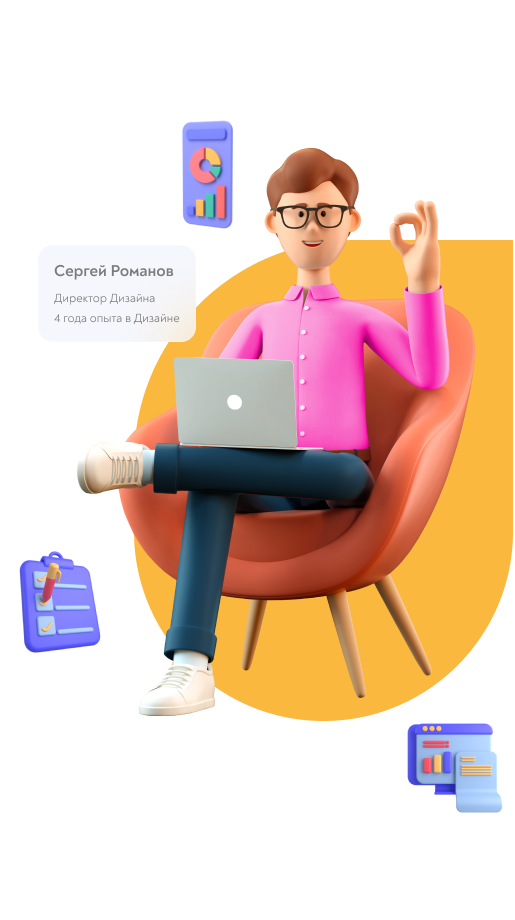
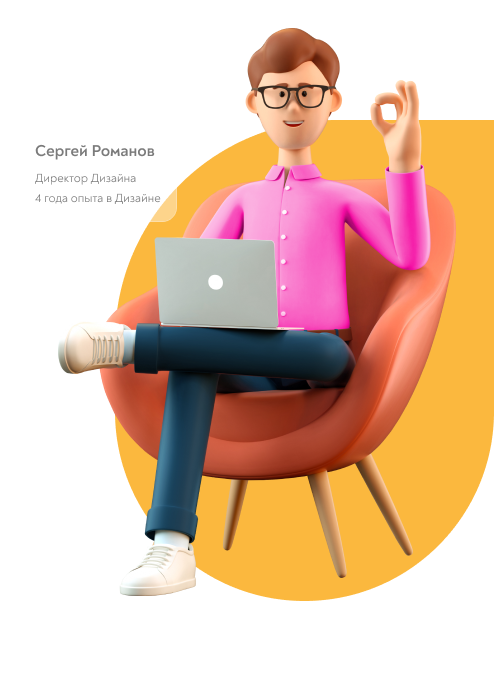
finaly first layout

diff --git a/src/components/ModalCallback/ModalCallback.jsx b/src/components/ModalCallback/ModalCallback.jsx
@@ -5,18 +5,18 @@ import "./modalcallback.css";
 const ModalCallback = (props) => {
   return (
   <div className="modalWrapper">
-    <div className="modalBody">
+    <div className="modalCallbackBody">
       <img src="./images/cross.png" className="closeModal" alt="Close" width="24" height="24" onClick={props.closeModal} />
-        <p className="titleModal">Пишите, звоните, куда удобно всегда на связи. Ответим на любые вопросые.</p>
-        <div className="modalNav">
-          <img src="./images/telegram.png" alt="telegram"  className="icoModal"/>
-          <a href="https" className="navLinkModal">Telegram</a>
-          <img src="./images/whatsapp.png" alt="telegram"  className="icoModal"/>
-          <a href="https" className="navLinkModal">Whats up</a>
-        
-        
+        <div className="callbackFormContent">
+        <h4>Обсудить проект</h4>
+        <p>Оставьте свои контакты и мы свяжемся, чтобы обсудить ваш проект.</p>
+        <form action="" className="callbackForm" >
+          <input type="textr"  placeholder="Введите ваше имя"/>
+          <input type="tel" placeholder="+XXX XXX XXX"/>
+          <button className="callbackMOdalBtn" callbackMOdalBtn>ОТПРАВИТЬ</button>
+        </form>
+        <span className="policyTitle">Нажимая кнопку «Отправить», Вы соглашаетесь с<br/><a href="">политикой конфиденциальности</a></span>
         </div>
-        
     </div>
   </div>
   

diff --git a/src/components/Portfolio/portfolio.css b/src/components/Portfolio/portfolio.css
@@ -22,8 +22,10 @@
 }
 .introTitle span {
     border-radius: 5px;
-    border: 1px tomato dashed;
-    background-color: rgba(255, 99, 71, 0.555)
+    background-image: url(../../../public/images/captureBorder.png) ;
+    background-size: contain;
+    background-repeat: no-repeat;
+    
 }
 .introParag {
     margin: 0;
@@ -46,6 +48,49 @@
     background-color: #EEF1FC ;
 }
 .introImage {
-    width: 461px;
+    position: relative;
+    width: 494px;
     height: 693px;
+}
+.introImages {
+    width: 494px;
+    height: 693px;
+    position: relative;
+}
+.telImage {
+    position: absolute;
+    left: 160px;
+    animation: livitation 5s infinite ;
+    animation-delay: 3s;
+}
+.noteImage {
+    position: absolute;
+    left: 0;
+    bottom: 170px;
+    animation: livitation 5s infinite;
+}
+.pcImage {
+    position: absolute;
+    bottom: 0;
+    right: 10px;
+    animation: livitation 5s infinite ;
+    animation-delay: 1.5s;
+} 
+
+@keyframes livitation {
+    0% {
+        transform: translateY(0);
+    }
+    25%{
+        transform: translateY(-9px);
+    }
+    50%{
+        transform: translateY(0);
+    }
+    75% {
+        transform: translateY(-9px);
+    }
+    100%{
+        transform: translateY(0);
+    }
 }

diff --git a/src/components/ModalCallback/modalcallback.css b/src/components/ModalCallback/modalcallback.css
@@ -1,0 +1,63 @@
+.modalCallbackBody {
+    position: relative;
+    background-color: #282FD2 ;
+    padding: 35px;
+    border-radius: 10px;
+}
+
+
+.callbackFormContent {
+    width: 362px;
+    color: white;
+    display: flex;
+    flex-direction: column;
+    text-align: center;
+}
+
+.callbackFormContent h4 {
+    font-family: Noah-700;
+    font-size: 30px;
+    margin: 10px auto;
+}
+.callbackFormContent p {
+    font-family: Noah-400;
+    font-size: 20px;
+    margin-top: 0;
+    margin-bottom: 30px;
+}
+.callbackForm input {
+    padding: 15px;
+    font-size: 18px;
+    border-radius: 5px;
+    border: none;
+    width: 100%;
+    height: 55px;
+    background-color: white;
+    color:#9A9A9A ;
+    margin-bottom: 10px;
+}
+.callbackForm input:focus {
+    outline: none;
+}
+
+.callbackMOdalBtn {
+    color: white;
+  width: 100%;
+  height: 75px;  
+  background-color: #FBB83E;
+  border: none;
+  border-radius: 5px;
+  margin-top: 10px;
+}
+
+.policyTitle {
+    margin-top: 10px;
+    font-size: 14px;
+}
+.policyTitle a {
+    text-decoration: none;
+    color:#FBB83E;
+}
+.policyTitle a:hover {
+    text-decoration: underline;
+}

diff --git a/src/components/Portfolio/Portfolio.jsx b/src/components/Portfolio/Portfolio.jsx
@@ -14,7 +14,10 @@ const Portfolio = () => {
                     <button className="callbackBtn" onClick={() => {setModalOpened(true)}}>заказать проект</button>
                 </div>
                 <div className="introImages">
-                    <img src="./images/intro3.png" alt="SergeyRomanov" className="introImage"/>
+                    <img src="./images/intro.png" alt="SergeyRomanov" className="introImage"/>
+                    <img src="./images/telapp.png" alt=""  className="telImage"/>
+                    <img src="./images/note.png" alt="" className="noteImage" />
+                    <img src="./images/pc.png" alt="" className="pcImage"/>
                 </div>
                 
             </div>
